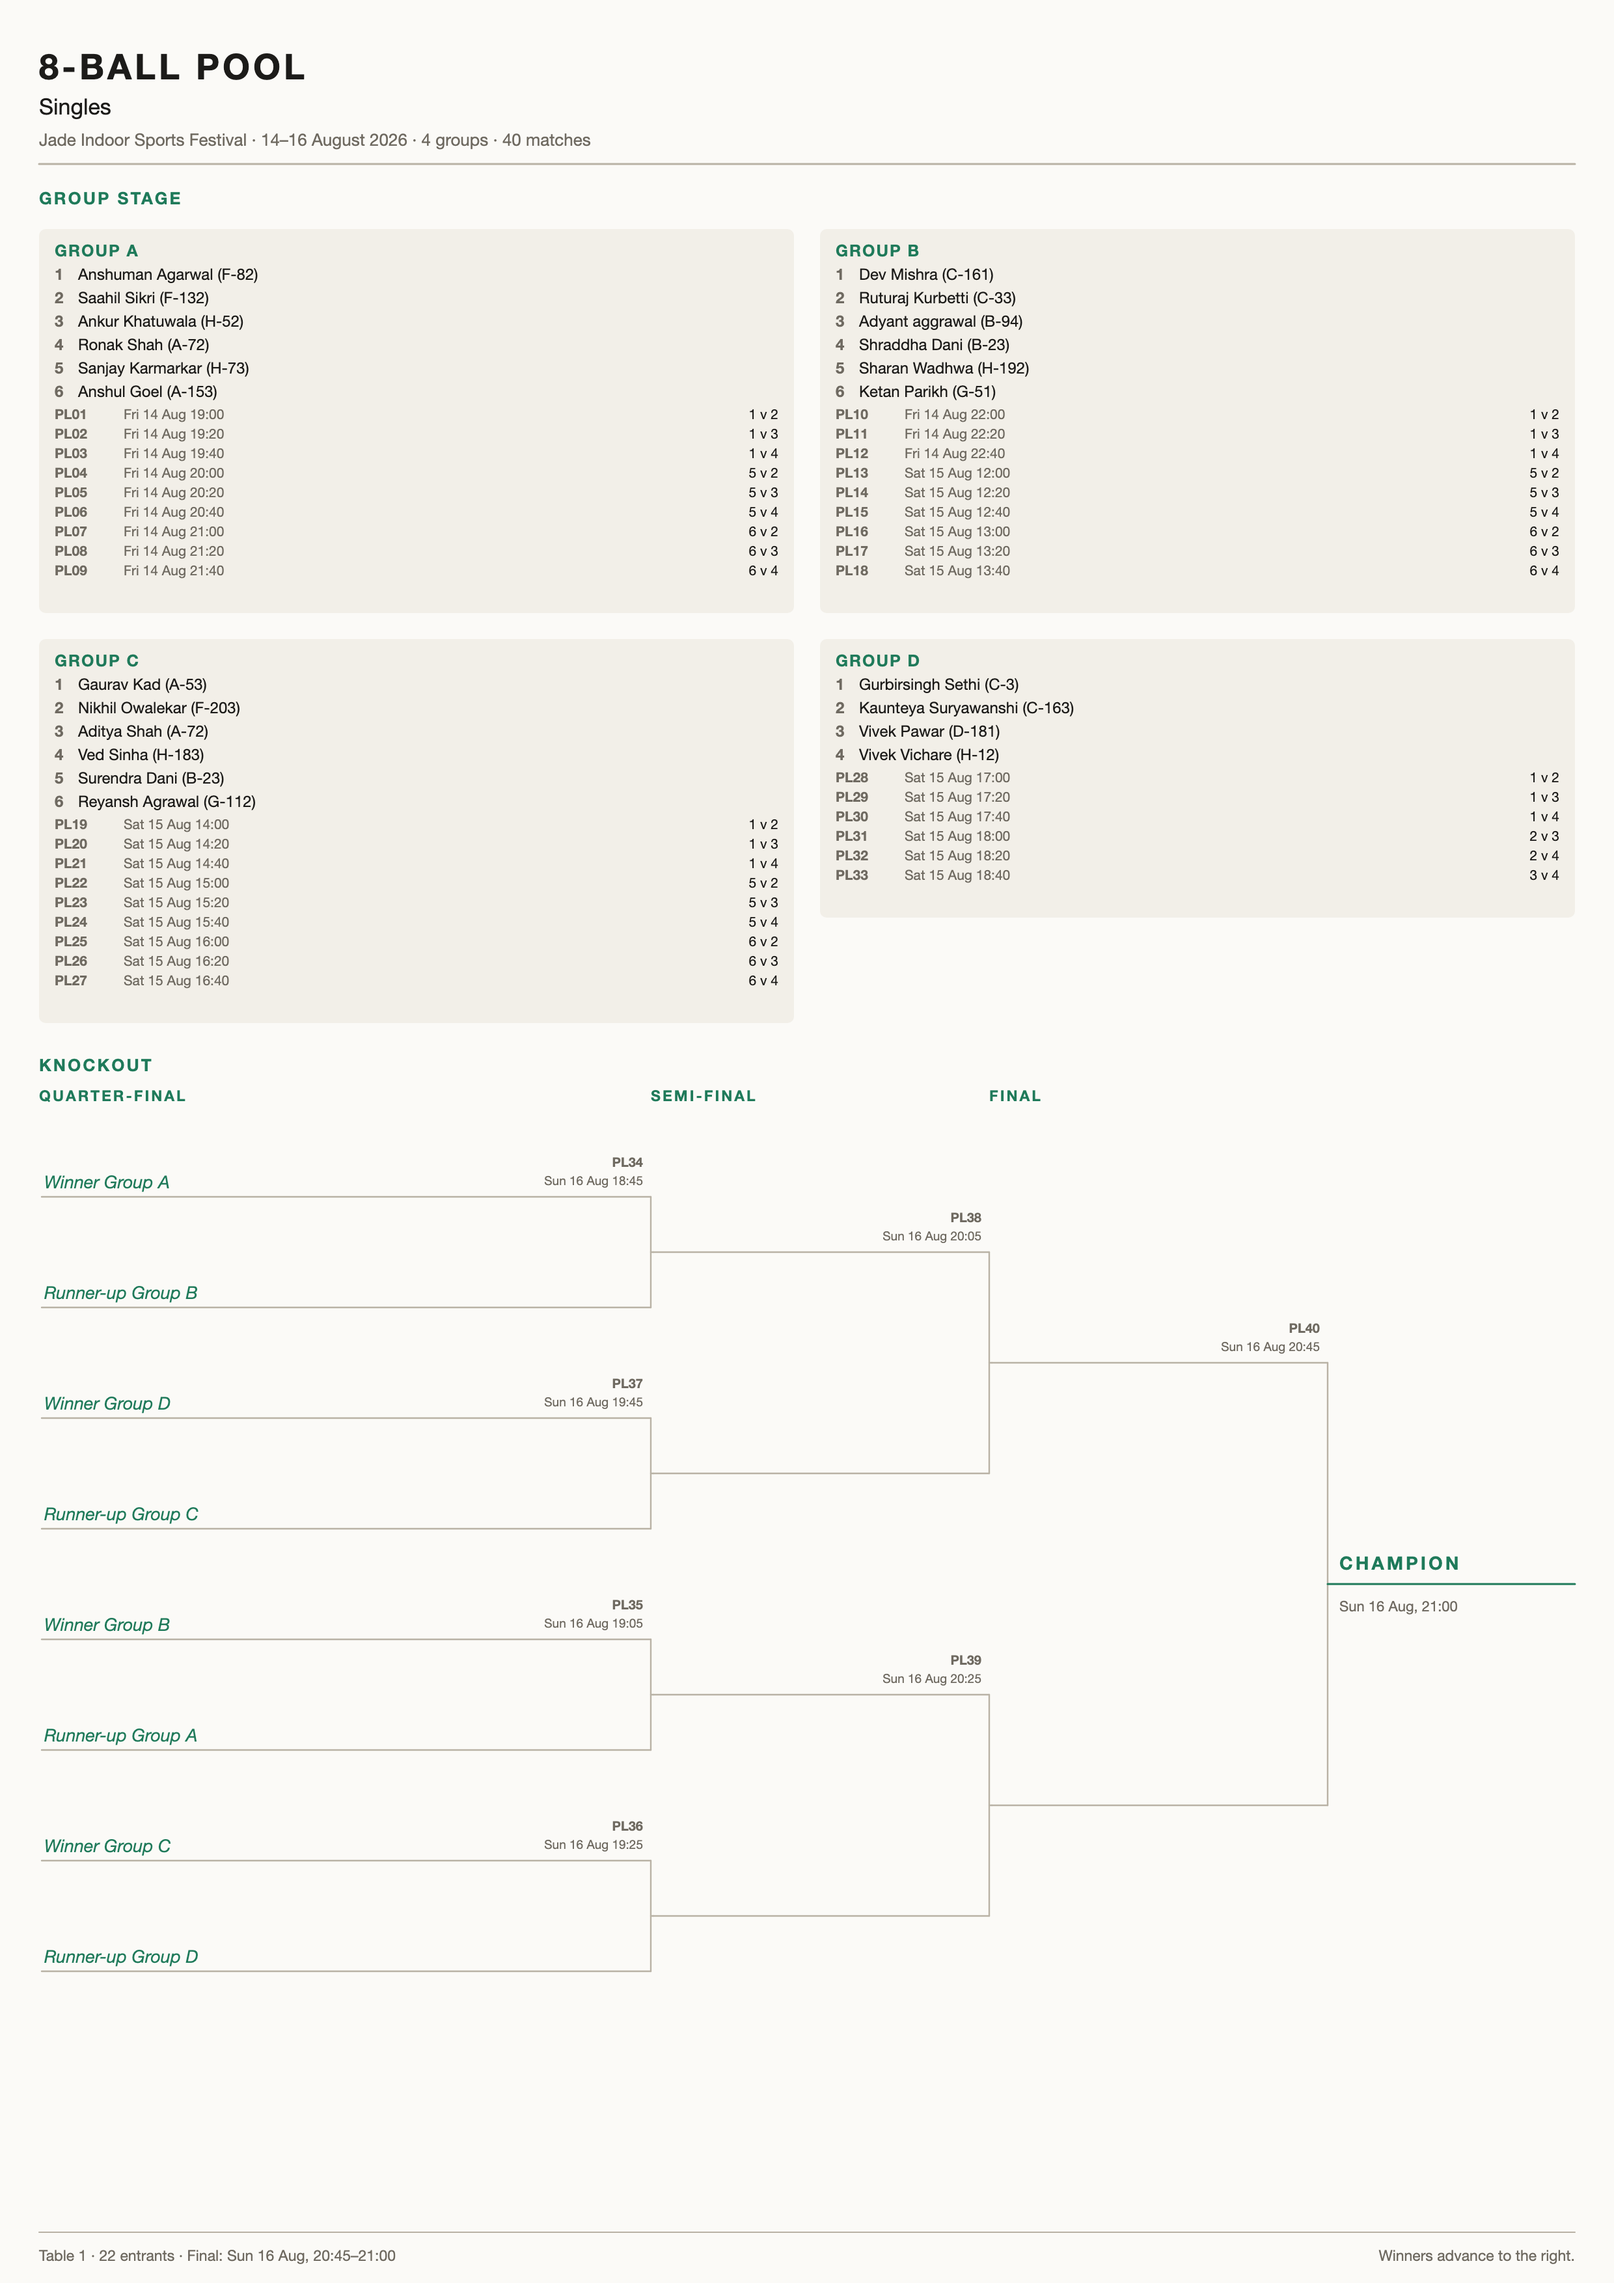
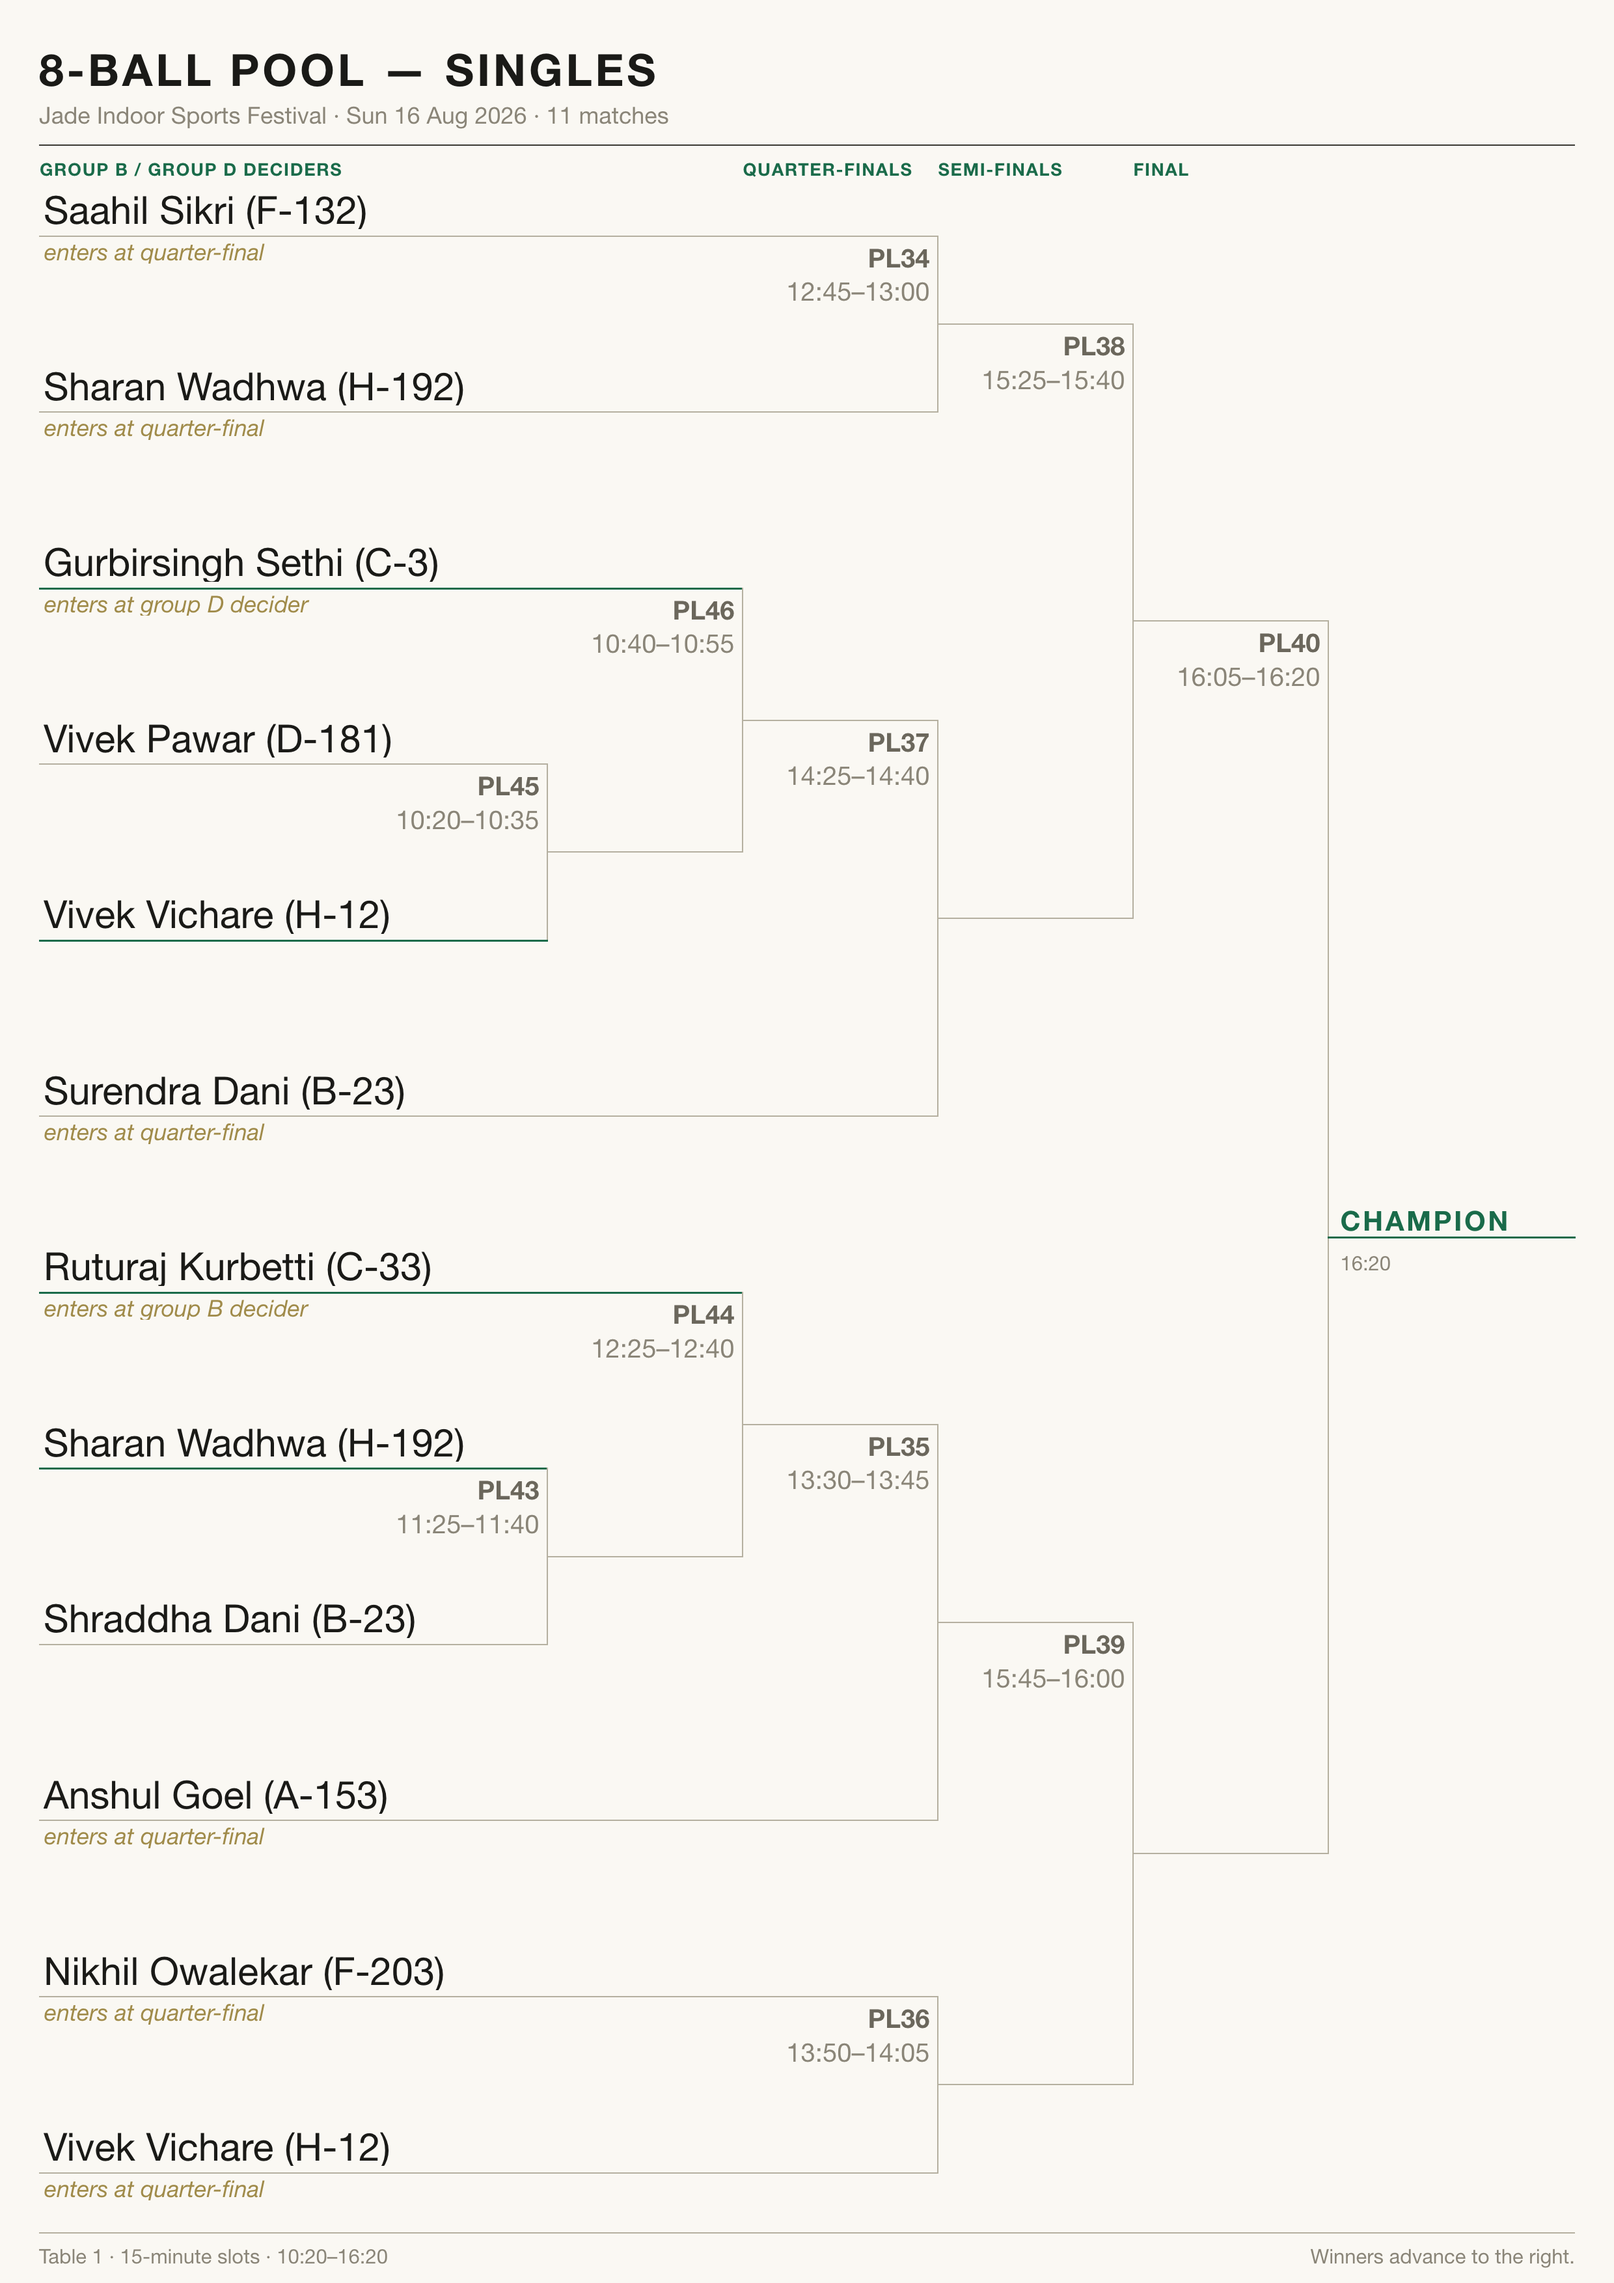
Record Sunday's pool deciders and name both group runners-up
PL43-PL46 played: Sharan Wadhwa and Ruturaj Kurbetti in group B, Vivek Vichare
and Gurbirsingh Sethi in group D.

Both groups had ended in a three-way tie on 2-1, which is what the chains were
for, and between them they settle the whole top of each group — the chain's
final match decides first and second, so PL34's "Runner-up Group B" is Sharan
Wadhwa and PL36's "Runner-up Group D" is Vivek Vichare. Written into the draw
because no results.csv row can resolve a group placeholder. Like PL41, both
edits are lost if the draw is regenerated; noted in CLAUDE.md.

diff --git a/CLAUDE.md b/CLAUDE.md
@@ -109,10 +109,14 @@ published schedule, so they are tracked.
   `draws.js` because `schedules/` and `search/` must agree on who is playing; `resolved()` in
   `check_draw.py` is a second implementation of that one rule — **keep the two in step by hand.**
 
-  Only a match id resolves. `Winner Group A` and `Runner-up Group B` wait on a whole group's
-  standings, which nothing here works out: a group can finish level (Group A of the pool did,
-  which is why `PL41` exists), so naming a qualifier the organisers have not settled would be
-  worse than leaving the placeholder showing.
+  Only a match id resolves. A `Winner Group A` / `Runner-up Group B` placeholder waits on a whole
+  group's standings, which nothing here works out: a group can finish level (Group A of the pool
+  did, which is why `PL41` exists), so naming a qualifier the organisers have not settled would be
+  worse than leaving the placeholder showing. When they *have* settled one, the way to record it is
+  to **overwrite the placeholder with the name in the draw CSV** — there is no results.csv row that
+  can do it. Two such edits are in the tree, both from Sunday's pool deciders (see `PL34`/`PL36`
+  below); `Winner Group A` / `Runner-up Group A` in carrom doubles is still open, its Group A
+  finishing on Sunday.
 - The draw is generated, not written by hand: `scripts/draw.py` reads the sheet export
   `psl.csv`, builds the field for every category, and lays the matches out. Re-run it after a
   re-export rather than editing the CSVs, then `scripts/check_draw.py` to re-assert every
@@ -167,6 +171,15 @@ published schedule, so they are tracked.
   `roundClass()` in `schedules/schedules.js` all match on that prefix, and a round starting
   `Group` is read as a group stage by both scripts. The three are duplicated by hand, so keep
   them in step.
+
+  A decider chain settles more than the one spot it is named for. Both of Sunday's chains ran
+  a three-way tie on 2-1 down to an order: the odd player out gets the bye and enters at the
+  second match, so **its winner is the group winner and its loser the runner-up**, the first
+  decider's loser placing third. That reading is convention, not something the CSVs state — it
+  is why the runner-up can be filled in at all. Group B went Ruturaj Kurbetti / Sharan Wadhwa /
+  Shraddha Dani, group D Gurbirsingh Sethi / Vivek Vichare / Vivek Pawar, so `PL34`'s
+  `Runner-up Group B` was overwritten with Sharan Wadhwa and `PL36`'s `Runner-up Group D` with
+  Vivek Vichare. Like `PL41`, **regenerating the draw drops both edits.**
 
   **Two failures is the current baseline; anything beyond these two is new.** A third,
   `BDAM06: 15 min, expected 30`, stood here until Sunday's badminton went to a flat 25 minutes
